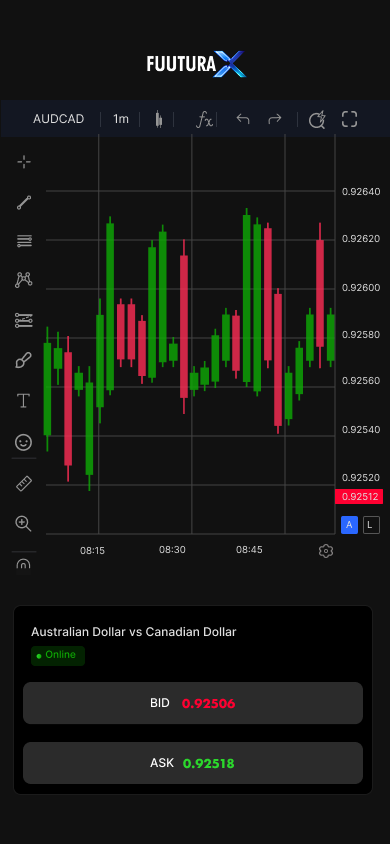
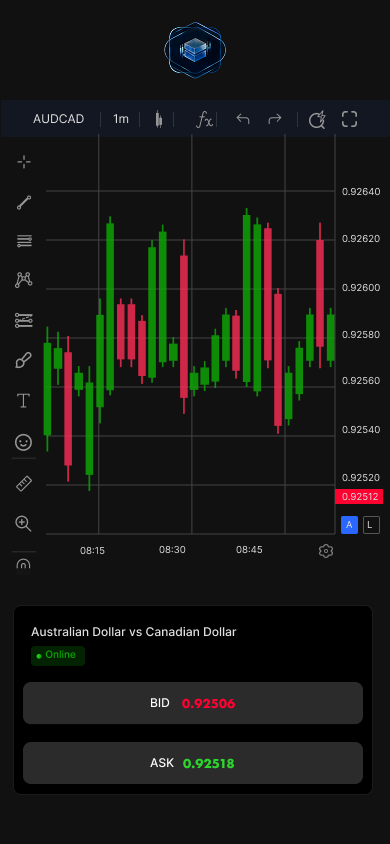
refactor: update ProjectSlide layout, simplify component props, and rename project titles

Changed region(s): [[0.3692, 0.0308, 0.6462, 0.0924]]

diff --git a/app/page.tsx b/app/page.tsx
@@ -106,7 +106,7 @@ export default function Home() {
       <ProjectSlide
         id="slide-p1"
         slideNumber="06"
-        projectNumber="01"
+
         title="Fuutura Wallet"
         description="A secure, enterprise-grade non-custodial Web3 wallet bridging digital asset management and trading — enabling users to store, manage, transfer, and swap cryptocurrencies across multiple blockchain ecosystems while maintaining complete asset ownership."
         domain="Web3 · DeFi · React.js · Node.js"
@@ -121,8 +121,7 @@ export default function Home() {
       <ProjectSlide
         id="slide-p2"
         slideNumber="07"
-        projectNumber="02"
-        title="Fuutura Trade"
+        title="NEXA Exchange"
         description="A sophisticated full-stack hybrid trading platform bridging traditional finance and decentralized ecosystems. Built for both Web2 and Web3 users in a single unified experience, delivering institutional-grade trading with real-time performance."
         domain="Trading · React.js · Zustand · WebSocket"
         background="/ftrade_premium_bg.png"
@@ -136,8 +135,7 @@ export default function Home() {
       <ProjectSlide
         id="slide-p3"
         slideNumber="08"
-        projectNumber="03"
-        title="Fuutura Extension"
+        title="Algos Dashboard"
         description="A production-grade, non-custodial browser extension wallet engineered to deliver the fluency and familiarity of leading wallet extensions — while maintaining the full security architecture of the Fuutura ecosystem."
         domain="Browser Extension · Next.js · Viem · AWS"
         background="/fextension_premium_bg.png"
@@ -152,8 +150,7 @@ export default function Home() {
       <ProjectSlide
         id="slide-p4"
         slideNumber="09"
-        projectNumber="04"
-        title="Fuutura KYC"
+        title="DeFi Yield Protocol"
         description="A multi-surface, AI-powered KYC ecosystem making identity verification fast, intelligent, and blockchain-backed. Serves individual users and enterprise clients via a consumer mobile app, embeddable SDK, and B2B web dashboard."
         domain="AI · Identity · Python · LLaMA · Polygon"
         background="/fkyc_premium_bg.png"
@@ -167,8 +164,7 @@ export default function Home() {
       <ProjectSlide
         id="slide-p5"
         slideNumber="10"
-        projectNumber="05"
-        title="Digital24"
+        title="AI Marketing Suite"
         description="A full-featured PR distribution platform streamlining how businesses create, manage, and fulfil media campaigns at scale — from guaranteed placements and newswire to SEO guest posting, journalist outreach, payments, and internal fulfilment."
         domain="SaaS · Next.js · PostgreSQL · Stripe"
         background="/digital24_premium_bg.png"
@@ -182,7 +178,6 @@ export default function Home() {
       <ProjectSlide
         id="slide-p6"
         slideNumber="11"
-        projectNumber="06"
         title="Intelizzz — Vehicle Intelligence"
         description="A comprehensive enterprise-grade vehicle intelligence and tracking platform serving installers, operations teams, recovery agents, and consumers — built across 6 integrated modules on a resilient event-driven microservices backend."
         domain="IoT · React Native · Kafka · Kubernetes"
@@ -197,8 +192,7 @@ export default function Home() {
       <ProjectSlide
         id="slide-p7"
         slideNumber="12"
-        projectNumber="07"
-        title="Toybox — Automotive Concierge"
+        title="Verita Health App"
         description="A premium automotive concierge ecosystem purpose-built for luxury vehicle owners — delivered across four integrated surfaces covering the full member, staff, and operational experience with native iOS and web applications."
         domain="Luxury Auto · iOS Swift · Next.js"
         background="/toybox_premium_bg.png"

diff --git a/app/components/ProjectSlide.tsx b/app/components/ProjectSlide.tsx
@@ -14,7 +14,6 @@ interface Feature {
 interface ProjectSlideProps {
   id: string;
   slideNumber: string;
-  projectNumber: string;
   title: string;
   description: string;
   domain: string;
@@ -27,7 +26,7 @@ interface ProjectSlideProps {
 }
 
 export default function ProjectSlide({
-  id, slideNumber, projectNumber, title, description, domain, background, status, features, mockupSrc, mockupSrcSplash, mockupType = "mobile",
+  id, slideNumber, title, description, domain, background, status, features, mockupSrc, mockupSrcSplash, mockupType = "mobile",
 }: ProjectSlideProps) {
   return (
     <SlideWrapper id={id} bgImage={background} overlay="rgba(7,7,7,0.85)">
@@ -60,9 +59,9 @@ export default function ProjectSlide({
 
           {/* Domain + title */}
           <div className="stack" style={{ gap: "0.1rem" }}>
-            <motion.p className="t-mono" variants={itemVariants} style={{ color: "var(--accent)", opacity: 0.6 }}>
-              Project {projectNumber} · {domain}
-            </motion.p>
+            {/* <motion.p className="t-mono" variants={itemVariants} style={{ color: "var(--accent)", opacity: 0.6 }}>
+              {domain}
+            </motion.p> */}
             <motion.h2 className="t-h3" variants={itemVariants} style={{ maxWidth: "540px" }}>
               {title}
             </motion.h2>
@@ -71,10 +70,10 @@ export default function ProjectSlide({
         </div>
 
         {/* ── Bottom row: features grid + mockup, both bottom-aligned ── */}
-        <div style={{ display: "flex", alignItems: "flex-end", width: "100%" }}>
+        <div style={{ display: "flex", flexWrap: "wrap", alignItems: "flex-end", width: "100%", rowGap: "3rem" }}>
 
           {/* Left: description + divider + features grid */}
-          <div className="stack stack-sm" style={{ flexShrink: 0, width: "100%", maxWidth: "600px" }}>
+          <div className="stack stack-sm" style={{ flexShrink: 0, width: "100%", flex: "1 1 500px", maxWidth: "600px" }}>
 
             {/* Overview Description */}
             <motion.p className="t-body" variants={itemVariants} style={{ maxWidth: "520px" }}>
@@ -84,7 +83,7 @@ export default function ProjectSlide({
             <motion.div variants={itemVariants} style={{ borderBottom: "1px solid var(--border)", margin: "0.25rem 0", maxWidth: "520px" }} />
 
             {/* Key Features (2x2 Grid) */}
-            <div style={{ display: "grid", gridTemplateColumns: "1fr 1fr", gap: "1rem", maxWidth: "600px" }}>
+            <div style={{ display: "grid", gridTemplateColumns: "repeat(auto-fit, minmax(200px, 1fr))", gap: "1rem", maxWidth: "600px" }}>
               {features.map((f, i) => (
                 <motion.div key={i} variants={itemVariants} className="stack stack-xs">
                   <div style={{ display: "flex", alignItems: "center", gap: "0.5rem" }}>
@@ -102,14 +101,11 @@ export default function ProjectSlide({
 
           {/* Right Area Wrapper — takes the remaining space on the right */}
           <div style={{
-            flex: 1,
+            flex: "1 1 400px",
             display: "flex",
-            /* TO CHANGE ALIGNMENT:
-               Use "center" to center the mockups in the right-hand space.
-               Use "flex-start" to left-align them closer to the text.
-               Use "flex-end" to push them all the way to the right edge. */
-            justifyContent: "flex-start",
-            paddingLeft: "clamp(2rem, 4vw, 5rem)" /* Safe gap from the left column */
+            /* Centering the mockups perfectly balances the whitespace on ultra-wide screens! */
+            justifyContent: "center",
+            paddingLeft: "clamp(1rem, 2vw, 3rem)" /* Safe gap from the left column */
           }}>
             {/* Device Mockup */}
             <motion.div variants={itemVariants} style={{

diff --git a/app/globals.css b/app/globals.css
@@ -1,3 +1,5 @@
+@import "tailwindcss/utilities";
+
 /* ============================================================
    ORIGIN ONE — Design System v2 (Software Development House)
    Pure monochromatic. Geometric. Engineering-grade precision.
@@ -57,6 +59,25 @@
   --sp-md: 1.5rem;
   --sp-lg: 2.5rem;
   --sp-xl: 4rem;
+}
+
+button:not(.disabled),
+a {
+  @apply cursor-pointer;
+}
+
+button:hover:not(.disabled, .just-press),
+a:hover {
+  @apply transition-all;
+  @apply duration-200;
+  @apply scale-[1.02];
+}
+
+button:active:not(.disabled, .just-press),
+a:active {
+  @apply transition-all;
+  @apply duration-200;
+  @apply scale-95;
 }
 
 /* ─── Base ─── */
@@ -128,8 +149,13 @@ body {
 }
 
 @keyframes cinematicBreath {
-  0% { transform: scale(1.0); }
-  100% { transform: scale(1.05); }
+  0% {
+    transform: scale(1.0);
+  }
+
+  100% {
+    transform: scale(1.05);
+  }
 }
 
 .slide-bg {
@@ -247,7 +273,7 @@ body {
 /* Two-column editorial */
 .grid-2 {
   display: grid;
-  grid-template-columns: 1fr 1fr;
+  grid-template-columns: repeat(auto-fit, minmax(min(100%, 350px), 1fr));
   gap: clamp(2rem, 4.5vw, 5.5rem);
   align-items: start;
 }
@@ -271,7 +297,7 @@ body {
 /* 4-column pillar grid */
 .grid-4 {
   display: grid;
-  grid-template-columns: repeat(4, 1fr);
+  grid-template-columns: repeat(auto-fit, minmax(200px, 1fr));
   gap: 1px;
   background: var(--border);
 }
@@ -323,7 +349,7 @@ body {
   background: var(--surface-2);
   border-color: var(--border-strong);
   transform: translateY(-4px) scale(1.01);
-  box-shadow: 
+  box-shadow:
     0 12px 40px rgba(0, 0, 0, 0.6),
     inset 0 1px 1px rgba(255, 255, 255, 0.08);
 }
@@ -345,7 +371,7 @@ body {
   background: var(--surface-2);
   border-color: var(--border-strong);
   transform: translateY(-4px) scale(1.01);
-  box-shadow: 
+  box-shadow:
     0 12px 40px rgba(0, 0, 0, 0.6),
     inset 0 1px 1px rgba(255, 255, 255, 0.08);
 }
@@ -359,7 +385,7 @@ body {
   background: var(--surface-2) !important;
   border-color: var(--border-strong) !important;
   transform: translateY(-2px) scale(1.03);
-  box-shadow: 
+  box-shadow:
     0 8px 24px rgba(0, 0, 0, 0.5),
     inset 0 1px 1px rgba(255, 255, 255, 0.08);
 }

diff --git a/app/components/NavDots.tsx b/app/components/NavDots.tsx
@@ -29,17 +29,15 @@ export default function NavDots() {
           onClick={() => goTo(i)}
           title={slide.label}
           style={{
-            width: current === i ? "18px" : "4px",
-            height: "4px",
+            width: current === i ? "28px" : "8px",
+            height: "8px",
             borderRadius: "99px",
-            background:
-              current === i ? "#ffffff" : "rgba(255,255,255,0.18)",
+            background: current === i ? "#ffffff" : "rgba(255,255,255,0.25)",
             border: "none",
             cursor: "pointer",
             padding: 0,
-            transition: "all 0.35s cubic-bezier(0.4, 0, 0.2, 1)",
-            boxShadow:
-              current === i ? "0 0 8px rgba(255,255,255,0.4)" : "none",
+            transition: "all 0.4s cubic-bezier(0.16, 1, 0.3, 1)",
+            boxShadow: current === i ? "0 0 10px rgba(255,255,255,0.5)" : "none",
           }}
         />
       ))}
